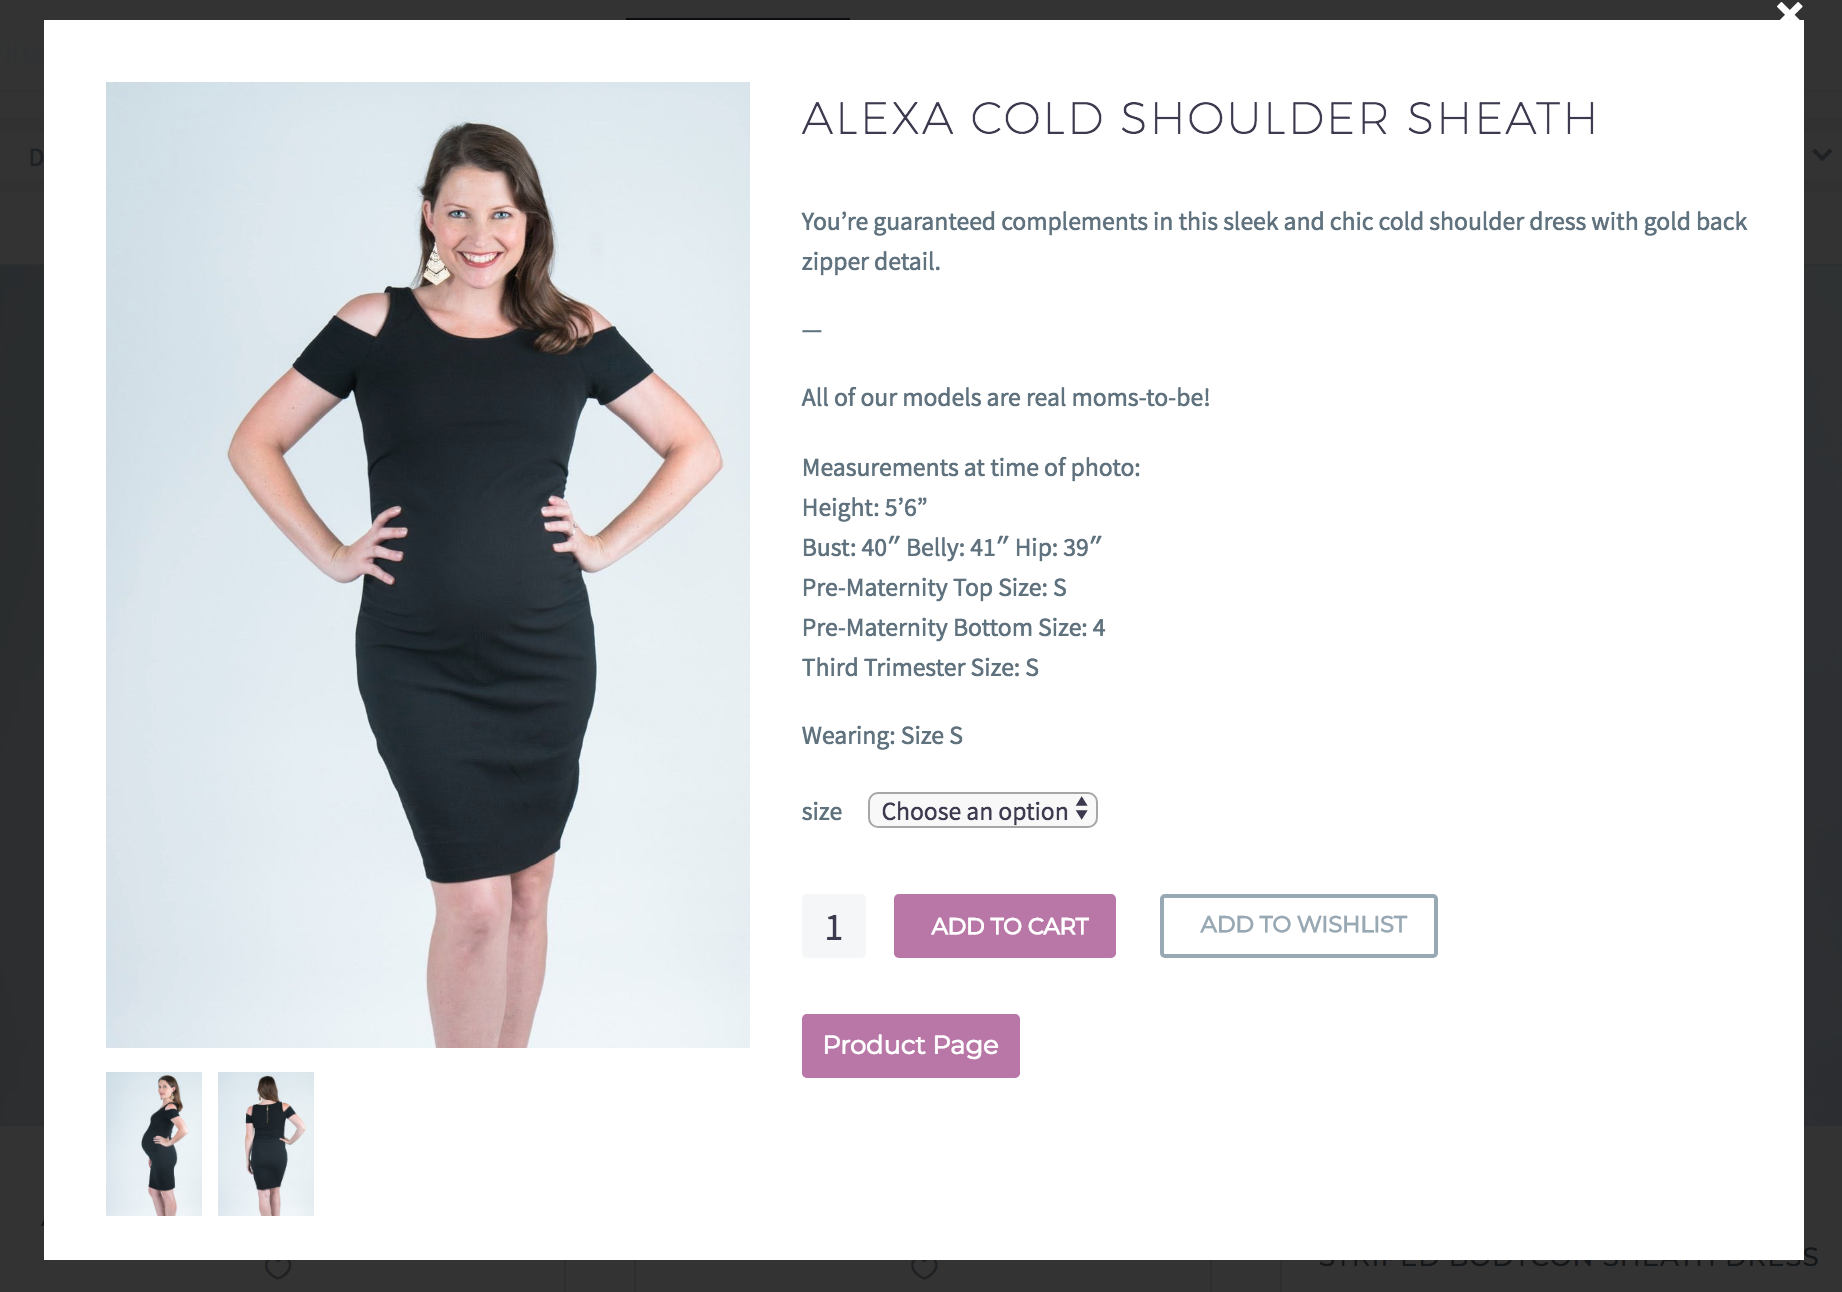
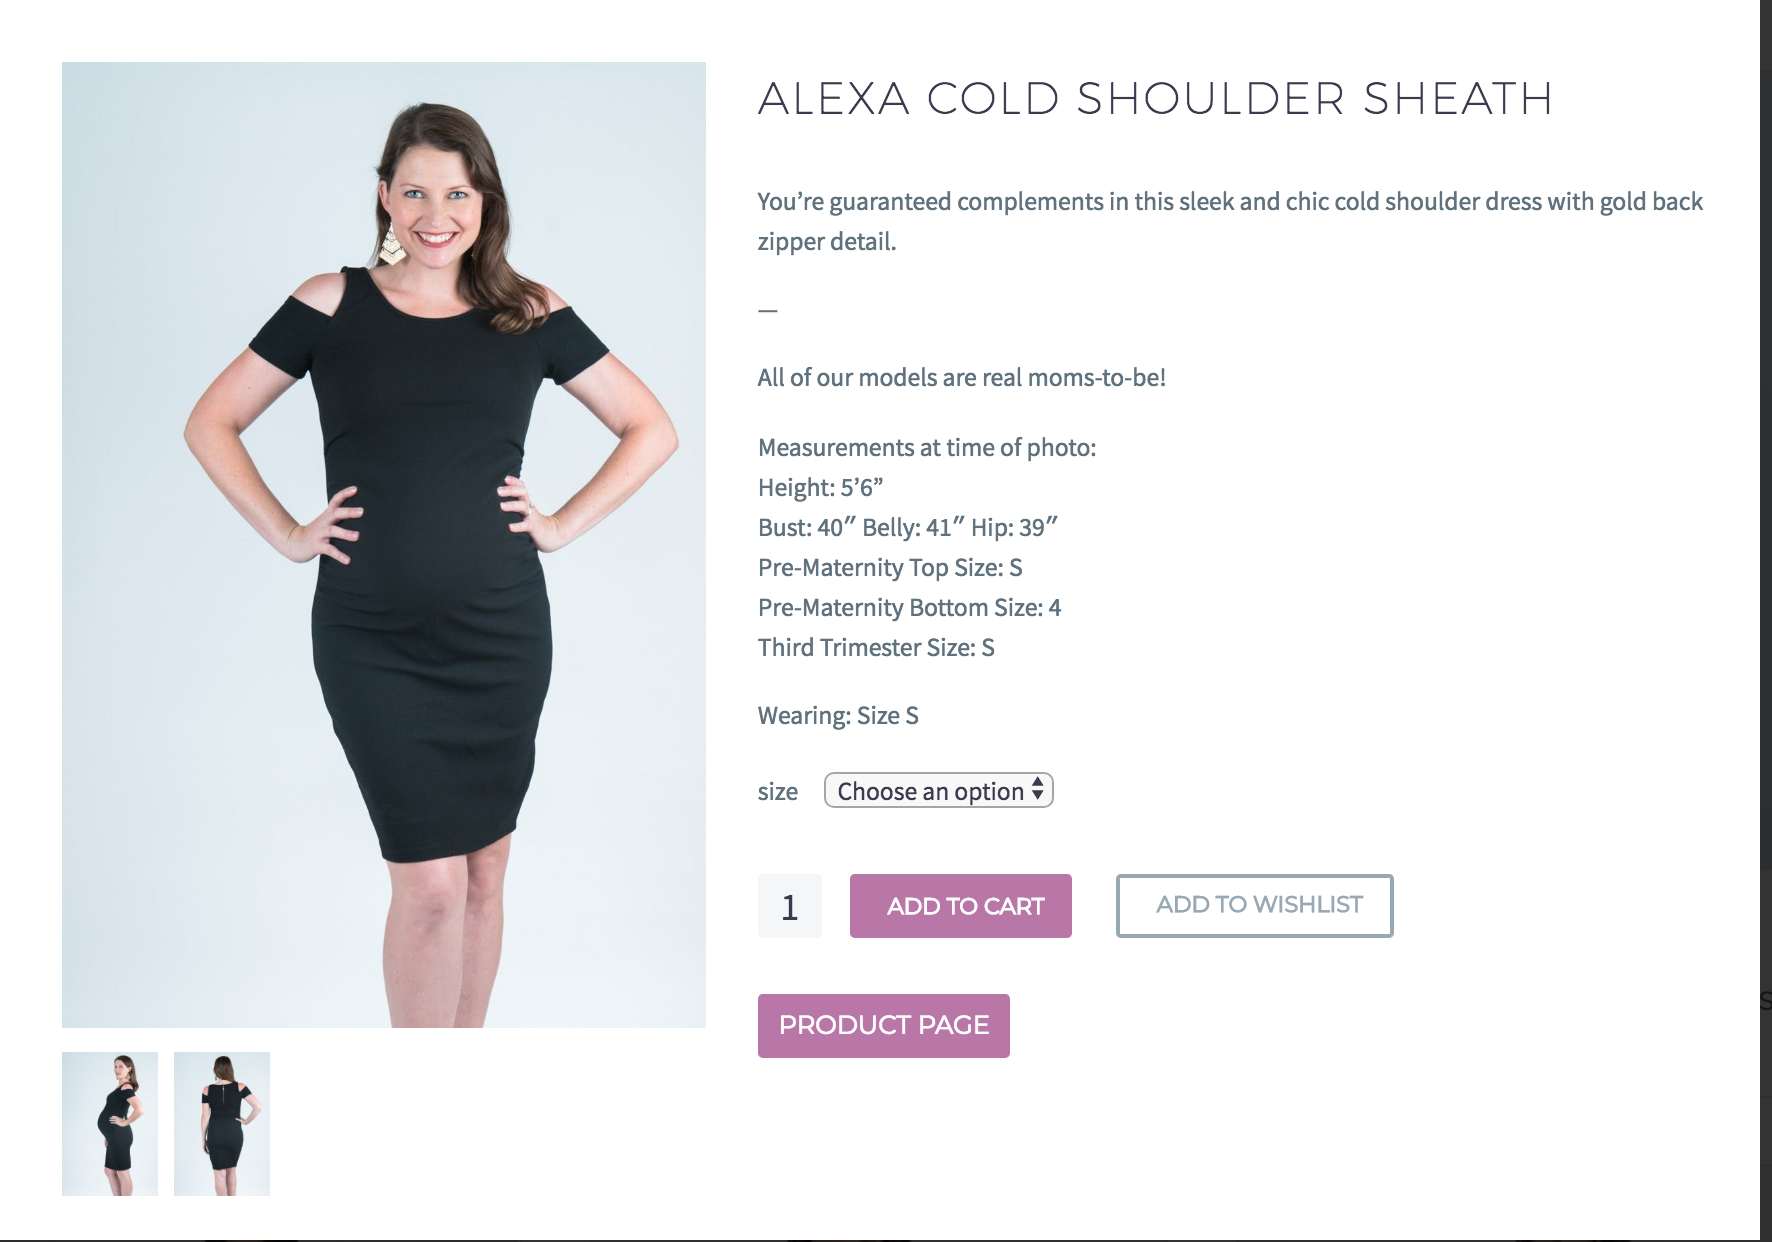
more updates

Changed region(s): [[0.0, 0.0, 1.0, 1.0], [0.3725, 0.6119, 0.807, 0.8567]]

diff --git a/README.md b/README.md
@@ -1,37 +1,38 @@
 # Bella Nove
-Work from July 16 to August 22.
+Work from July 16 to September 12.
 
 ## Contents
-- [Code](README.md#code)
-   - [The Gem Child Theme](README.md#The-Gem-Child-Theme)
-   - [Google Fonts](README.md#Google-Fonts)
-   - [Refresh CSS](README.md#Refresh-CSS)
-   - [ReferralCandy Code](README.md#ReferralCandy-Code)
-   - [Add Product Images to Confirmation Email](README.md#Add-Product-Images-to-Confirmation-Email)
-   - ["Add to Wishlist" within Cart Page](README.md#"Add-to-Wishlist"-within-Cart-Page)
-   - [User Roles Issue](README.md#User-Roles-Issue)
-   - [3 Items per Row on "All" Page](README.md#3-Items-per-Row-on-"All"-Page)
-- [Design/UX](README.md#design/ux)
-   - [Top Menu Consolidation/UX Improvements](README.md#Top-Menu-Consolidation/UX-Improvements)
-   - [Consolidating Dashboard and Edit Account Pages](README.md#Consolidating-Dashboard-and-Edit-Account-Pages)
-   - [Add a Footer Menu](README.md#Add-a-Footer-Menu)
-   - [Format Contact and Gift Form Pages](README.md#Format-Contact-and-Gift-Form-Pages)
-   - [Add Size Guide](README.md#Add-Size-Guide)
-   - [Remove Buttons on Product Cards](README.md#Remove-Buttons-on-Product-Cards)
-   - [Mini-Cart Scroll](README.md#Mini-Cart-Scroll)
-   - [Gifting UX](README.md#Gifting-UX)
-   - ["Registration" Page](README.md#"Registration"-Page)
-   - [Uniform Fonts / Alignment / Other Added CSS](README.md#Uniform-Fonts-/-Alignment-/-Other-Added-CSS)
-- [Plugins](README.md#plugins)
-   - [Product Reviews](README.md#Product-Reviews)
-   - [Sitemap/SEO](README.md#Sitemap/SEO)
-   - [Quickview](README.md#Quickview)
-- [Other](README.md#other)
-   - [Staging Site](README.md#Staging-Site)
-   - [Databases](README.md#Databases)
-   - [Cloudflare](README.md#Cloudflare)
-   - [Site Optimization](README.md#Site-Optimization)
-   - [FB Pixel](README.md#FB-Pixel)
+- [Code](#code)
+   - [The Gem Child Theme](#The-Gem-Child-Theme)
+   - [Google Fonts](#Google-Fonts)
+   - [Refresh CSS](#Refresh-CSS)
+   - [ReferralCandy Code](#ReferralCandy-Code)
+   - [Add Product Images to Confirmation Email](#Add-Product-Images-to-Confirmation-Email)
+   - ["Add to Wishlist" within Cart Page](#"Add-to-Wishlist"-within-Cart-Page)
+   - [User Roles Issue](R#User-Roles-Issue)
+   - [3 Items per Row on "All" Page](3-Items-per-Row-on-"All"-Page)
+- [Design/UX](#design/ux)
+   - [Top Menu Consolidation/UX Improvements](#Top-Menu-Consolidation/UX-Improvements)
+   - [Consolidating Dashboard and Edit Account Pages](#Consolidating-Dashboard-and-Edit-Account-Pages)
+   - [Add a Footer Menu](#Add-a-Footer-Menu)
+   - [Format Contact and Gift Form Pages](#Format-Contact-and-Gift-Form-Pages)
+   - [Add Size Guide](#Add-Size-Guide)
+   - [Remove Buttons on Product Cards](#Remove-Buttons-on-Product-Cards)
+   - [Mini-Cart Scroll](#Mini-Cart-Scroll)
+   - [Gifting UX](#Gifting-UX)
+   - ["Registration" Page](#"Registration"-Page)
+   - [Uniform Fonts / Alignment / Other Added CSS](#Uniform-Fonts-/-Alignment-/-Other-Added-CSS)
+- [Plugins](#plugins)
+   - [Product Reviews](#Product-Reviews)
+   - [Sitemap/SEO](#Sitemap/SEO)
+   - [Quickview](#Quickview)
+   - [Add Login Button to Menu](Add-Login-Button-to-Menu)
+- [Other](#other)
+   - [Staging Site](#Staging-Site)
+   - [Databases](#Databases)
+   - [Cloudflare](#Cloudflare)
+   - [Site Optimization](#Site-Optimization)
+   - [FB Shop](#FB-Shop)
 
 
 ## Code
@@ -547,6 +548,7 @@ div.xoo-qv-summary table.variations {
 	background-color: rgb(185, 118, 167);
 	border-radius: 3px;
 	font-family: 'Montserrat', Arial, sans-serif;
+	text-transform: uppercase;
 }
 div.yith-wcwl-wishlistexistsbrowse, div.yith-wcwl-wishlistaddedbrowse {
 	display: none;
@@ -577,6 +579,25 @@ Quickview After:
 
 ![Image](images/qv_after.png)
 
+### Add Login Button to Menu
+- **Problem**: We would like to add a Login/Logout button to the main menu of the site
+- **Solution**: To create a dynamic login/logout button in the menu:
+   - Download the plugin `Login or Logout Menu Item`
+   - Create a new "Login" page with a redirect to the "Account" page:
+   ![Image](images/new_login_page.png)
+   - On the plugin page, configure the following settings:
+   ![Image](images/loginplugin.png)
+   - The previous "Login" page was renamed to "Checkout Login" because it redirects to the checkout page
+   - To add the link to the menu, go to Appearance > Menus and there will now be a section on the left side called "Login/Logout", click this and select "Log In|Log Out" and then click "Add to Menu". This will create a dynamic link that will be either a login or logout link.
+   ![Image](images/login_menu.png)
+
+### Hide Account tab from Guest Users
+- **Problem**: We would like to hide the Account tab in the main menu (and its subtabs of Dashboard and Profile) for users that are not logged in
+- **Solution**: To control visibility of menu items:
+   - Download the plugin `Menu Items Visibility Control`, this adds a field for all menu items where PHP or WordPress functions can be used to create conditions and logic for that item
+   - In Appearance > Menus, add the following code to the "Account" item:
+   ![Image](images/menu_visibility.png)
+- **Notes**: I initially tried using the plugin `If Menu` but it interfered with the ability to create a megamenu for items.
 
 ## Other
 
@@ -594,6 +615,7 @@ Quickview After:
 
 ### Cloudflare
 - We set up a cloudflare account to improve website performance and security.
+- Later, we decided it was not worth the $20/month for the website at the moment, so we cancelled the account. See this link for the steps to cancel: [Cancel Cloudflare](https://support.cloudflare.com/hc/en-us/articles/200167776-How-do-I-cancel-or-downgrade-my-Cloudflare-account-)
 
 ### Site Optimization
 - Image re-sizing was successful for our images, but there are still some large images coming from plugins
@@ -601,5 +623,18 @@ Quickview After:
 - Attempted defering some JavaScript but the home page relies on a lot of JS and would not load correctly when I tried to defer it
 - Overall, most of the assets slowing us down are coming from plugins, not our own content, so it is beyond our control (unless we want to deactivate the plugins)
 
-### FB Pixel
-- The FB pixel still does not work correctly, we've tried a number of different approaches including creating a new pixel, adding additional microtags, deleting and reinstalling the Woocommerce for FB app, and deactivating plugins to see if there was interference there.
+### FB Shop
+- Our goals with having the FB Shop/Catalog/Pixel capabilities are 1) be able to tag our products on Instagram, and 2) run ads that contain our products (retargeted or not).
+- Getting the FB shop to work correctly was quite a difficult and time consuming task. We initially thought there was an issue with the FB Pixel itself or the Woocommerce for Facebook Plugin; however, after repeatedly testing these by creating new FB pixels, adding additional microtags, deleting and reinstalling the Woocommerce for FB app, and deactivating plugins to see if there was interference, we still could not get more than 1 product to show up in our Catalog on FB. 
+- Upon investigating why this 1 product would show up but none of the others did (even though the Woocommerce for FB plugin said "all products synced" and the Catalog gave no import errors) I discovered that the 1 product being imported actually had a price of $1 associated with it, and all the other products had a price of $0. I tested adding a price of >$0 to several other products and they suddenly synced to the FB shop. 
+- Now we knew that the problem was that products do not sync to FB from the WordPress site unless they have a price >$0. This requirement was initially overlooked by us because this sync used to work for a previous version of the website where all the products were also $0, so this must be a relatively new requirement on the Facebook end. 
+- However, this presented an issue to us because we do not want the products on the WordPress side to have a price >$0, as it would interfere with the users' monthly checkout. First, I noticed that once a product is synced, its price can be changed back to $0 and it will still show up on the FB shop. So, I did this add a >$0 price, sync, change price back, resync process for all 139 products (for only 1 variation/size for each product). 
+- At first, this seemed to work because all 139 products showed up in the Catalog on our side. But, the products were not actually published to our FB Shop (and therefore not able to be tagged through Instagram either) because their prices were still $0. Upon finding the actual product requirements for FB Stop it became clear we could not have any products published that were free:
+![Image](images/product_requirements.png)
+- To find a work around for this requirement, we came up with the idea of giving each product the price it would be to rent it individually for the month with the Starter Closet membership (i.e. $129/5 ~ $26). 
+- In order to keep the price as $0 on our website, the product's regular price is set to $26 and the sale price is set to $0. This ensures that customers renting the product are not charged the $26. See below for screenshots detailing the steps to follow when adding a new product or if a current product needs to be updated:
+![Image](images/sale1.png)
+![Image](images/sale2.png) Note that a sale start date must be specified for the sale feature it to work, this is done by clicking "Schedule". An end date is not needed. Additionally, this process only needs to be done for ONE of the product variations (the size will not show up on FB Shop)
+- Once these changes have been saved and the product updated, it will be visible on our FB Shop and available to be tagged on Instagram. The product description can be updated on the FB shop by clicking "Edit Product" then editing the description. See screenshots below:
+![Image](images/fbshop1.png)
+![Image](images/fbshop2.png)
